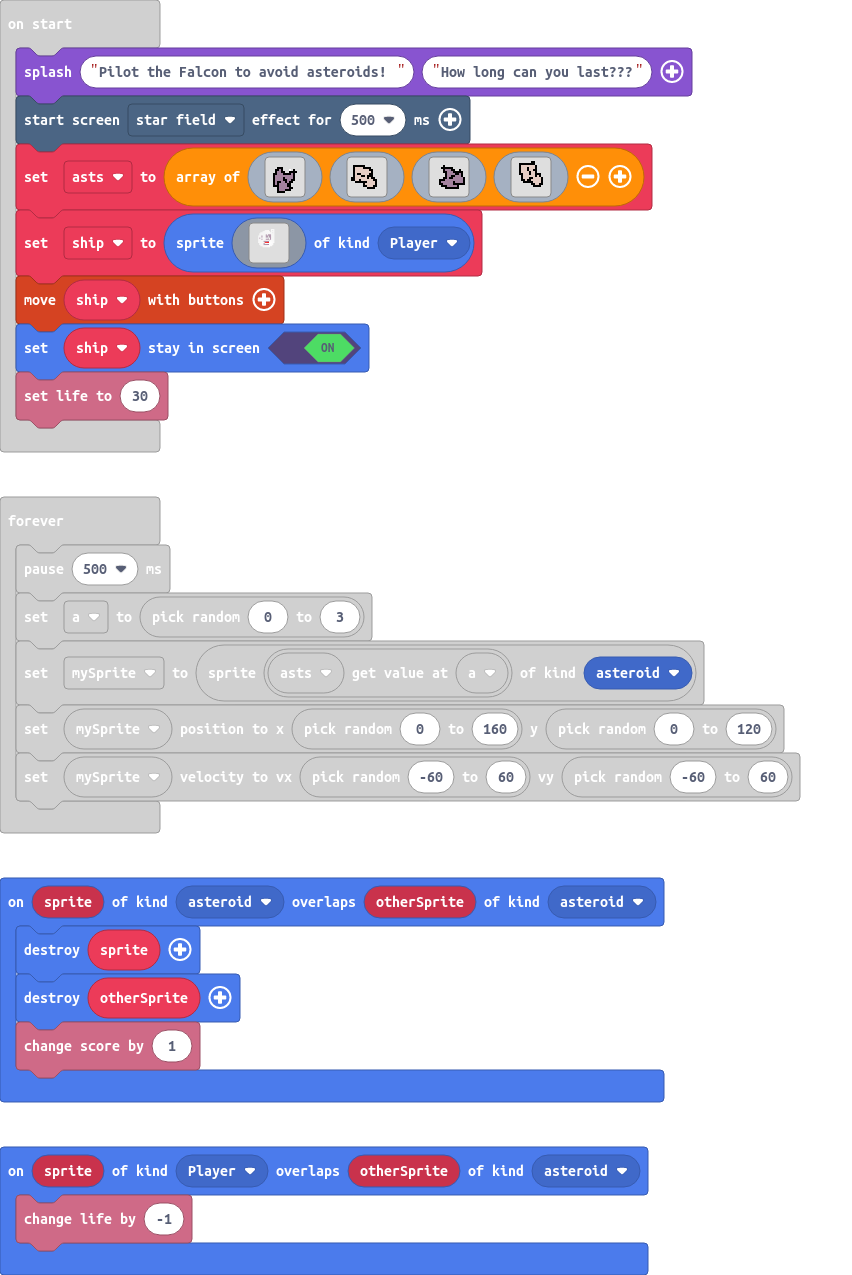
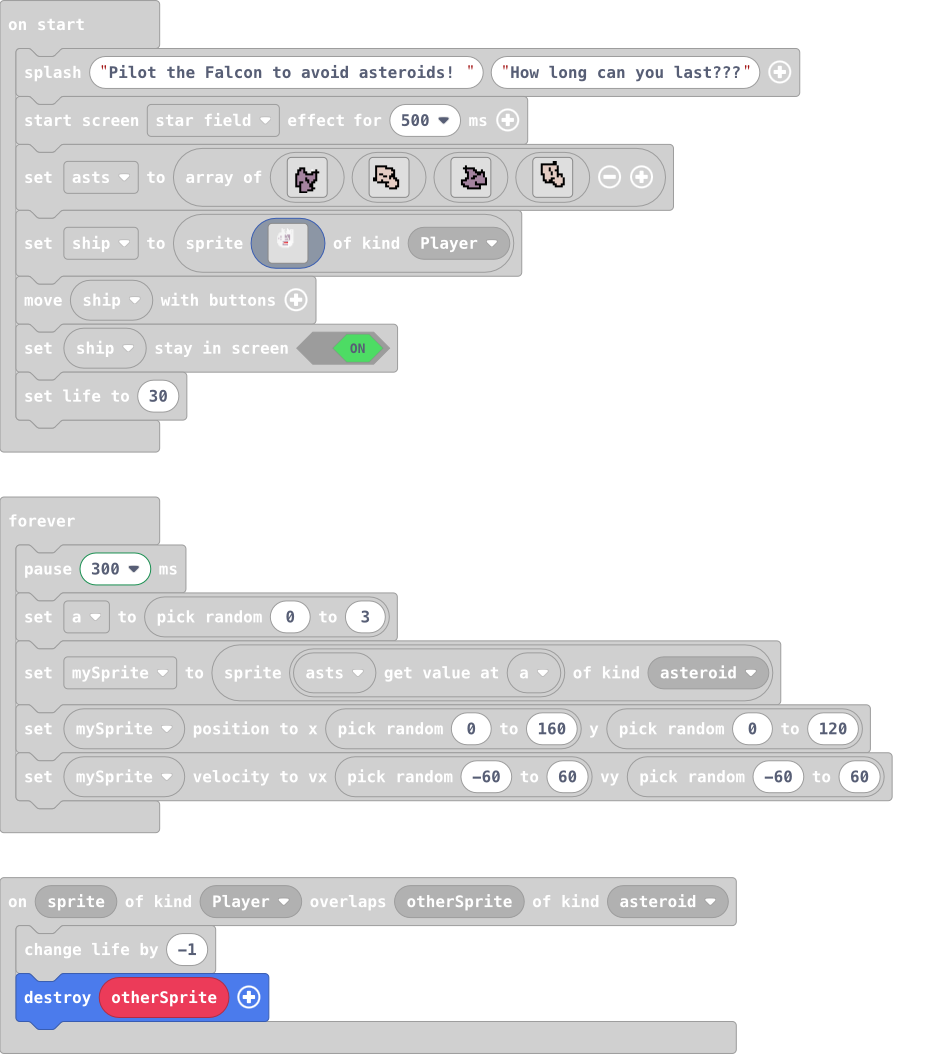
Update main.blocks, main.ts

diff --git a/main.ts b/main.ts
@@ -3,6 +3,7 @@ namespace SpriteKind {
 }
 sprites.onOverlap(SpriteKind.Player, SpriteKind.asteroid, function (sprite, otherSprite) {
     info.changeLifeBy(-1)
+    otherSprite.destroy()
 })
 sprites.onOverlap(SpriteKind.asteroid, SpriteKind.asteroid, function (sprite, otherSprite) {
     sprite.destroy()
@@ -16,11 +17,11 @@ effects.starField.startScreenEffect()
 let asts = [assets.image`as1`, assets.image`as2`, assets.image`as0`, assets.image`as3`]
 let ship = sprites.create(img`
     ..............................
-    ..............................
-    .................111..........
-    ...........1111..1.1..........
-    .........1111111.111..........
-    .......11111111111.1..........
+    .........1....1...............
+    .........111..11.111..........
+    .........11...1111.1..........
+    .........111.1111111..........
+    .......11111..1111.1..........
     ......11111111111111..........
     ......111111b1bbb111..........
     .....111b111bb.bb111..........
@@ -50,7 +51,7 @@ controller.moveSprite(ship)
 ship.setStayInScreen(true)
 info.setLife(30)
 forever(function () {
-    pause(500)
+    pause(300)
     a = randint(0, 3)
     mySprite = sprites.create(asts[a], SpriteKind.asteroid)
     mySprite.setPosition(randint(0, 160), randint(0, 120))
